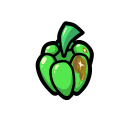
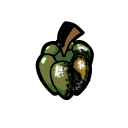
Ingredientes malos

Changed region(s): [[0.2812, 0.1875, 0.7188, 0.75]]

diff --git a/Data/Pedido.cpp b/Data/Pedido.cpp
@@ -42,13 +42,13 @@ Pedido::Pedido(Game* game_, int numComensales, int numeroTiles)
 			pedidoPaella nuevaPaella;
 			paellas.push_back(nuevaPaella);
 			paellas[i].tamanoPaella = tamano;
-			cout << endl << int(tamano) << endl;
+			//cout << endl << int(tamano) << endl;
 		}
 		else if (suma_tamanos == comensales) {
 			pedidoPaella nuevaPaella;
 			paellas.push_back(nuevaPaella);
 			paellas[i].tamanoPaella = tamano;
-			cout << endl << int(tamano) << endl;
+			/*cout << endl << int(tamano) << endl;*/
 			tamanos_escogidos = true;
 		}
 	}
@@ -60,7 +60,7 @@ Pedido::Pedido(Game* game_, int numComensales, int numeroTiles)
 			if (paellas[g].ingredientesPedido.size() < LIMITE_INGR && !ingredientesPedidos[ingredienteRand])
 			{
 				paellas[g].ingredientesPedido.push_back(ingredienteRand);
-				cout << int(ingredienteRand);
+				/*cout << int(ingredienteRand);*/
 				ingredientesPedidos[ingredienteRand] = true;
 			}
 			else
@@ -75,7 +75,7 @@ Pedido::Pedido(Game* game_, int numComensales, int numeroTiles)
 		}
 
 		ingredientesPedidos = vector<bool>(tipoIngrediente::LAST, false); // ??? no sirve de nada xd
-		cout << ingredientesPedidos.size();
+		/*cout << ingredientesPedidos.size();*/
 	}
 }
 

diff --git a/GameObjects/Ingredienteletal.h b/GameObjects/Ingredienteletal.h
@@ -1,8 +1,9 @@
 #pragma once
 #include "Ingrediente.h";
 class Game;
-const vector<string> texturaIngredienteLetal = { "rata" };
-enum tipoIngredienteLetal {rata, LEST};
+const vector<string> texturaIngredienteLetal = { "rata", "pimientoVerdeMalo", "pimientoRojoMalo"};
+enum tipoIngredienteLetal {rata, pVMalo, pRMalo, LEST};
+const vector<string> texturaIngrProcesadoLetal = { "rataP", "pimientoVerdeMaloProcesado", "pimientoRojoMaloProcesado"};
 
 class IngredienteLetal : public Ingrediente
 {

diff --git a/GameObjects/Muebles/Cinta.cpp b/GameObjects/Muebles/Cinta.cpp
@@ -57,7 +57,7 @@ void Cinta::render(SDL_Rect* cameraRect)
 {
 	if (isActive()) {
 		SDL_Rect dest = { getX() - getWidth() / 2, getY() - getHeight() / 2, w, h };
-		cout << angle << endl;
+		//cout << angle << endl;
 
 		drawRender(cameraRect, dest, texture, clip, angle);
 	}

diff --git a/GameObjects/Ingredienteletal.cpp b/GameObjects/Ingredienteletal.cpp
@@ -22,7 +22,9 @@ void IngredienteLetal::setProcesado(bool estadoIngr, Ingrediente* ingr)
 {
 	procesado = estadoIngr;
 
-	setTexture("rataP");
+	string tex = texturaIngrProcesadoLetal[(int)miTipoL];
+
+	setTexture(tex);
 }
 
 void IngredienteLetal::cambiaTipo(int n) {
